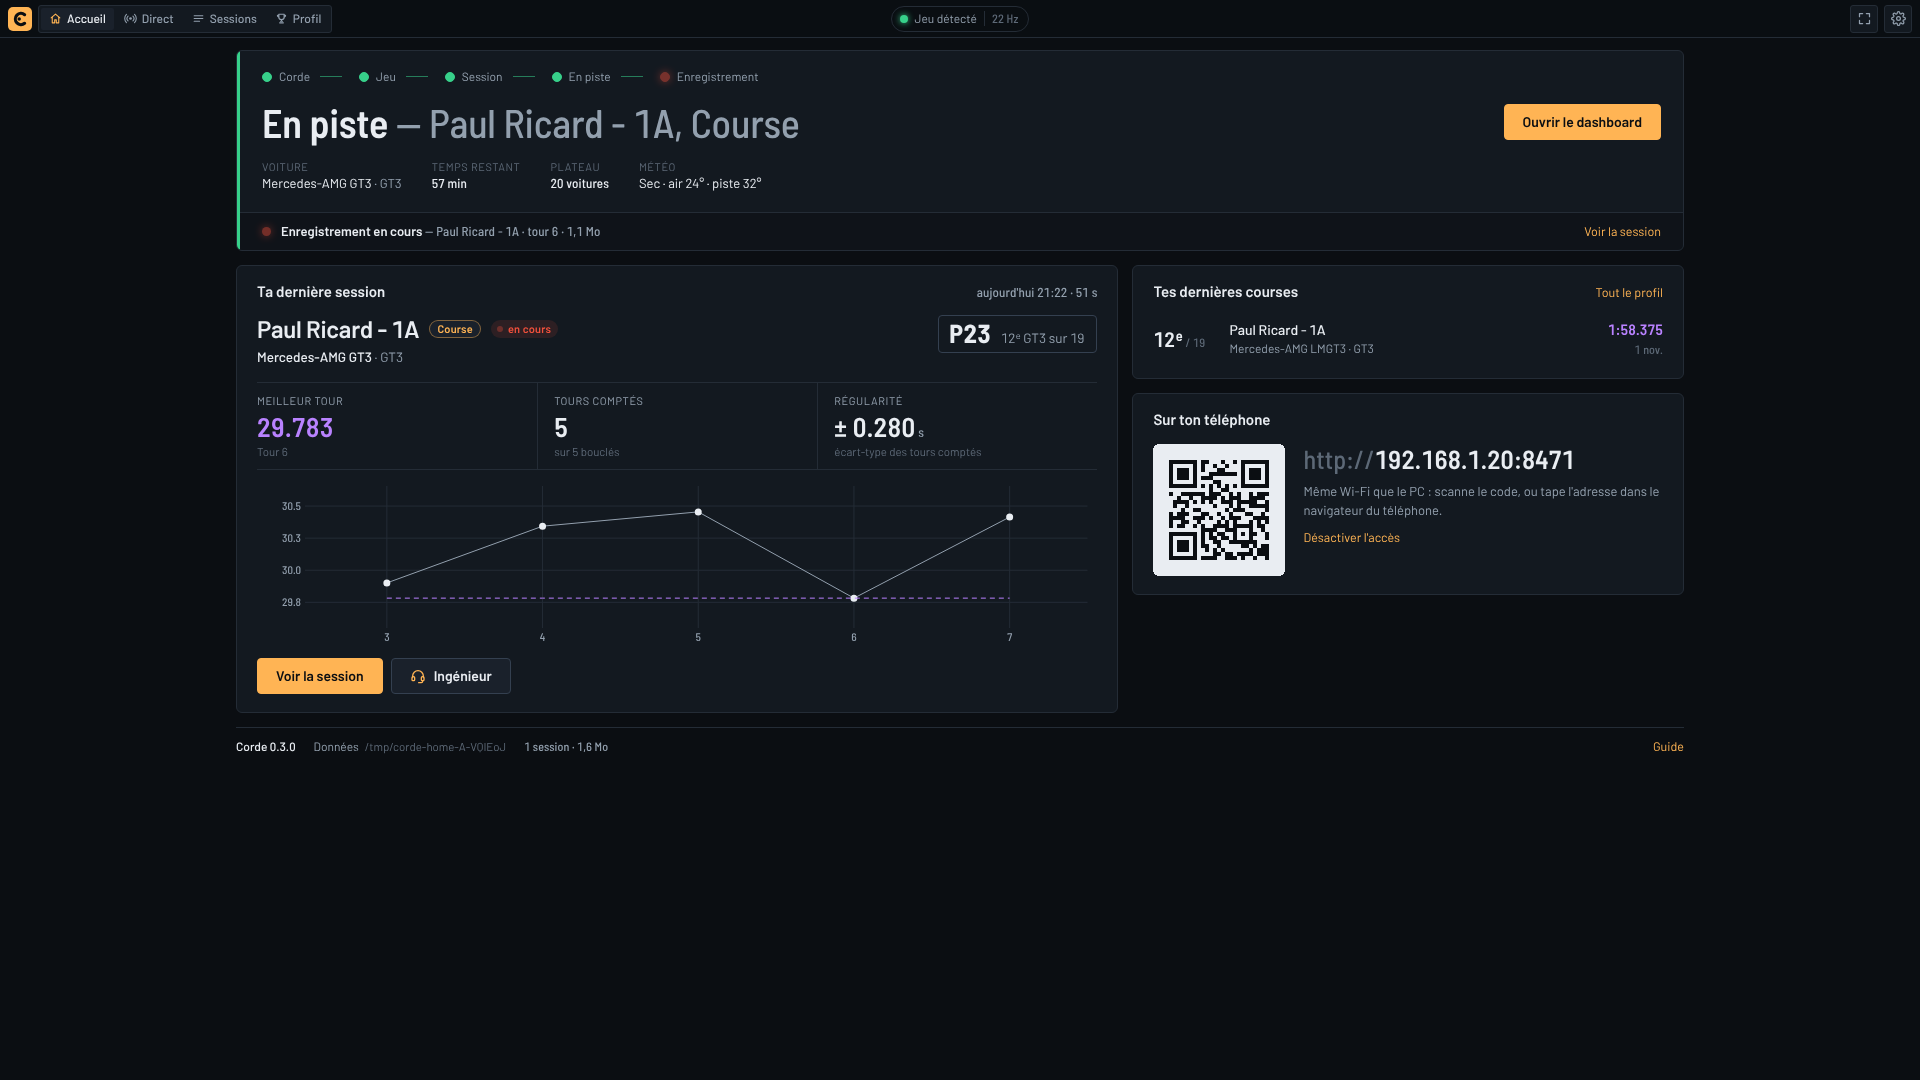
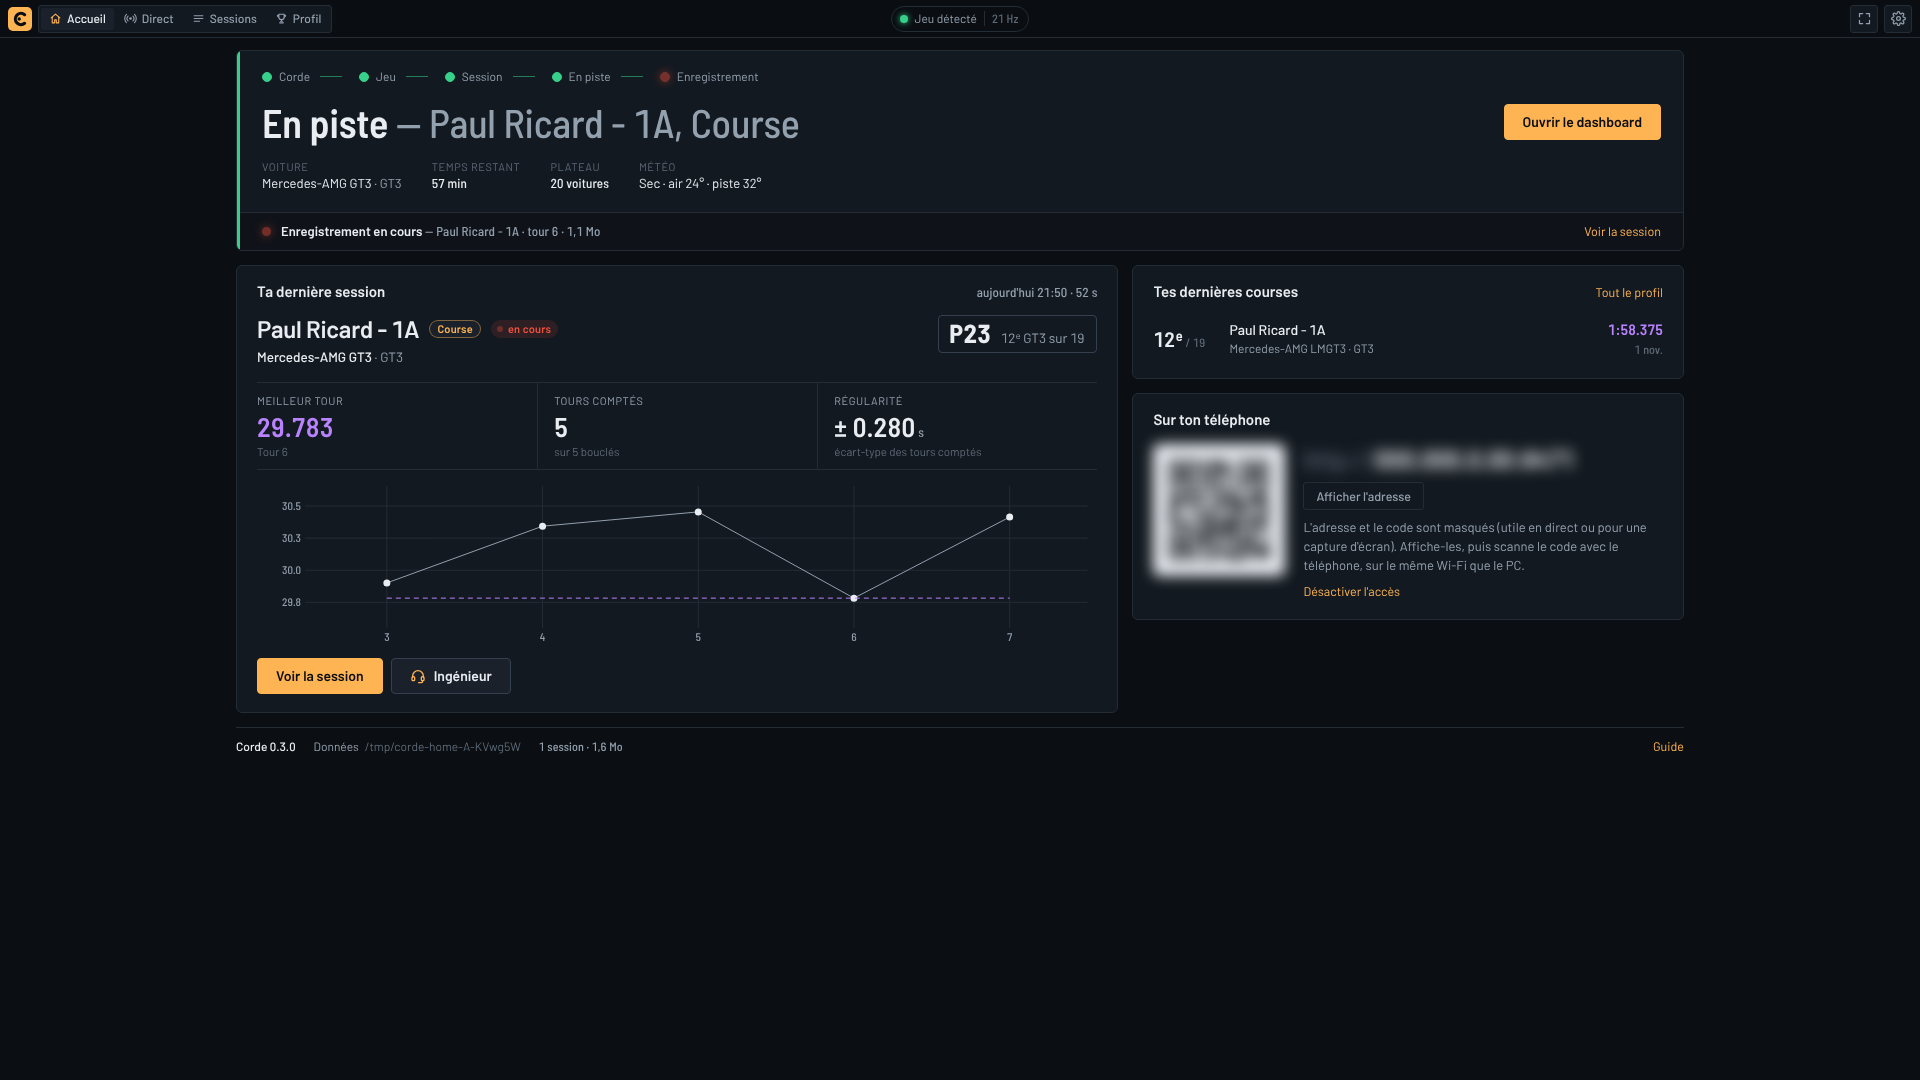
feat(ui): adresse du PC et QR code floutés par défaut, dossier de données sans le nom du compte
Sur l'accueil, le bloc « Sur ton téléphone » montre un substitut flouté (ni l'adresse ni le
QR code réels ne sont rendus) jusqu'au clic sur « Afficher l'adresse » ; l'état n'est pas
mémorisé. Le pied de page affiche %LOCALAPPDATA%\Corde au lieu du chemin complet (clic pour
le voir). Capture de l'accueil et guide mis à jour.

Claude-Session: https://claude.ai/code/session_01Tkn5C6AXYNnw4BUJ5wKaew

Changed region(s): [[0.5938, 0.3972, 0.8438, 0.55], [0.2188, 0.6722, 0.3125, 0.7028]]

diff --git a/packages/ui/src/home/HomePage.tsx b/packages/ui/src/home/HomePage.tsx
@@ -25,11 +25,13 @@ import { useConnectionPhase, useTelemetry } from "../store/telemetry";
 import { GuideDialog } from "./GuideDialog";
 import {
   bareAddress,
+  HIDDEN_ADDRESS,
   type HomePhase,
   homeLamps,
   homePhase,
   type Lamp,
   lastRaces,
+  maskUserPath,
   matchResult,
   ordinalSuffix,
   phoneState,
@@ -638,6 +640,9 @@ function PhoneCard() {
   const [busy, setBusy] = useState(false);
   const [error, setError] = useState<string | null>(null);
   const [chosen, setChosen] = useState(0);
+  // The address stays hidden (blurred stand-in) until the driver asks for it: the page may be
+  // on a stream. Not remembered: every visit starts hidden.
+  const [shown, setShown] = useState(false);
   // Only the PC that runs Corde may change the setting (the server refuses anyone else).
   const canChange = isDesktop() || isLocalPage();
 
@@ -681,14 +686,35 @@ function PhoneCard() {
     const others = state.urls.filter((u) => u !== url);
     body = (
       <div className="home-phone-on">
-        <Qr value={url} label={t("home.phone.qrLabel", { url })} />
+        {shown ? (
+          <Qr value={url} label={t("home.phone.qrLabel", { url })} />
+        ) : (
+          <div className="home-hidden" aria-hidden="true">
+            <Qr value={`http://${HIDDEN_ADDRESS}`} label="" />
+          </div>
+        )}
         <div className="home-phone-text">
-          <p className="home-url num">
-            <span className="home-url-scheme">http://</span>
-            {bareAddress(url)}
-          </p>
-          <p className="dim">{t("home.phone.on")}</p>
-          {others.length > 0 && (
+          {shown ? (
+            <p className="home-url num">
+              <span className="home-url-scheme">http://</span>
+              {bareAddress(url)}
+            </p>
+          ) : (
+            <p className="home-url num home-hidden" aria-hidden="true">
+              <span className="home-url-scheme">http://</span>
+              {HIDDEN_ADDRESS}
+            </p>
+          )}
+          <button
+            type="button"
+            className="btn home-reveal"
+            aria-pressed={shown}
+            onClick={() => setShown((v) => !v)}
+          >
+            {t(shown ? "home.phone.hide" : "home.phone.show")}
+          </button>
+          <p className="dim">{t(shown ? "home.phone.on" : "home.phone.hidden")}</p>
+          {shown && others.length > 0 && (
             <p className="home-phone-others dim">
               {t("home.phone.other")}{" "}
               {others.map((u) => (
@@ -807,6 +833,9 @@ function HomeFoot({ online, onGuide }: { online: boolean; onGuide: () => void })
     [online, revision],
   );
   const st = online ? storage.data : null;
+  // The folder is shown without the name of the Windows account (stream, screenshots); a click
+  // gives the full path.
+  const [fullPath, setFullPath] = useState(false);
   return (
     <footer className="page-foot home-foot dim">
       <span className="is-strong">
@@ -816,9 +845,15 @@ function HomeFoot({ online, onGuide }: { online: boolean; onGuide: () => void })
         <>
           <span className="home-foot-data">
             <span>{t("home.foot.data")}</span>{" "}
-            <span className="faint page-foot-path" title={st.path}>
-              {st.path}
-            </span>
+            <button
+              type="button"
+              className="faint page-foot-path home-foot-path"
+              title={t(fullPath ? "home.foot.pathHide" : "home.foot.pathShow")}
+              aria-pressed={fullPath}
+              onClick={() => setFullPath((v) => !v)}
+            >
+              {fullPath ? st.path : maskUserPath(st.path)}
+            </button>
           </span>
           <span className="num">
             {nOf(st.sessions, "word.session", "word.sessions")} · {fmtBytes(st.total_bytes, lang)}

diff --git a/packages/ui/src/home/lib.test.ts b/packages/ui/src/home/lib.test.ts
@@ -2,9 +2,11 @@ import { describe, expect, it } from "vitest";
 import type { ResultRow } from "../net/profile-api";
 import {
   bareAddress,
+  HIDDEN_ADDRESS,
   homeLamps,
   homePhase,
   lastRaces,
+  maskUserPath,
   matchResult,
   ordinalSuffix,
   phoneState,
@@ -220,5 +222,27 @@ describe("phoneState", () => {
   it("strips the scheme for display", () => {
     expect(bareAddress("http://192.168.1.20:8471")).toBe("192.168.1.20:8471");
     expect(bareAddress("http://[fd00::20]:8471/")).toBe("[fd00::20]:8471");
+  });
+});
+
+describe("what is shown while details are hidden", () => {
+  it("removes the account name from the data folder", () => {
+    expect(maskUserPath("C:\\Users\\someone\\AppData\\Local\\Corde")).toBe("%LOCALAPPDATA%\\Corde");
+    expect(maskUserPath("C:\\Users\\someone\\AppData\\Roaming\\Corde")).toBe("%APPDATA%\\Corde");
+    expect(maskUserPath("D:/Users/someone/Documents/corde-data")).toBe(
+      "%USERPROFILE%\\Documents/corde-data",
+    );
+    expect(maskUserPath("/home/someone/.local/share/corde")).toBe("~/.local/share/corde");
+    expect(maskUserPath("/Users/someone/Library/corde")).toBe("~/Library/corde");
+  });
+
+  it("leaves other folders alone", () => {
+    for (const p of ["D:\\Sim\\Corde", "/var/lib/corde", "/tmp/corde-home-x", ""]) {
+      expect(maskUserPath(p)).toBe(p);
+    }
+  });
+
+  it("stands in for the address with something that is not one of this PC's", () => {
+    expect(HIDDEN_ADDRESS).toMatch(/^0+\.0+\.0+\.0+:\d+$/);
   });
 });

diff --git a/packages/ui/src/home/lib.ts b/packages/ui/src/home/lib.ts
@@ -165,6 +165,33 @@ export function phoneState(net: NetworkInfo): PhoneState {
   return net.lan_access_setting ? { kind: "restart" } : { kind: "off" };
 }
 
+/**
+ * What stands in for the address while it is hidden (shown blurred): same shape as a real one,
+ * so the card keeps its layout, but nothing of the real address reaches the screen — the page
+ * may be on a stream or in a screenshot.
+ */
+export const HIDDEN_ADDRESS = "000.000.0.00:8471";
+
+/**
+ * A data folder without the name of the user's account: `C:\Users\<name>\AppData\Local\Corde`
+ * → `%LOCALAPPDATA%\Corde`, `/home/<name>/.local/share/corde` → `~/.local/share/corde`. Other
+ * paths are returned as they are.
+ */
+export function maskUserPath(path: string): string {
+  const win = path.match(/^[A-Za-z]:[\\/]Users[\\/][^\\/]+[\\/](.*)$/);
+  if (win) {
+    const rest = win[1] ?? "";
+    const local = rest.match(/^AppData[\\/]Local[\\/](.*)$/i);
+    if (local) return `%LOCALAPPDATA%\\${local[1] ?? ""}`;
+    const roaming = rest.match(/^AppData[\\/]Roaming[\\/](.*)$/i);
+    if (roaming) return `%APPDATA%\\${roaming[1] ?? ""}`;
+    return `%USERPROFILE%\\${rest}`;
+  }
+  const unix = path.match(/^\/(?:home|Users)\/[^/]+\/(.*)$/);
+  if (unix) return `~/${unix[1] ?? ""}`;
+  return path;
+}
+
 /** `http://192.168.1.20:8471` → `192.168.1.20:8471` (what is shown in large type). */
 export function bareAddress(url: string): string {
   return url.replace(/^https?:\/\//i, "").replace(/\/+$/, "");

diff --git a/packages/ui/src/i18n/en.ts b/packages/ui/src/i18n/en.ts
@@ -808,6 +808,10 @@ export const en: Record<TranslationKey, string> = {
   "home.phone.title": "On your phone",
   "home.phone.on":
     "Same Wi-Fi as the PC: scan the code, or type the address in the phone's browser.",
+  "home.phone.show": "Show the address",
+  "home.phone.hide": "Hide the address",
+  "home.phone.hidden":
+    "The address and the code are hidden (useful on a stream or for a screenshot). Show them, then scan the code with the phone, on the same Wi-Fi as the PC.",
   "home.phone.qrLabel": "QR code of the address {url}",
   "home.phone.other": "Other addresses of this PC",
   "home.phone.off":
@@ -829,6 +833,8 @@ export const en: Record<TranslationKey, string> = {
   "home.phone.error": "The setting was not saved: {msg}",
   "home.foot.version": "Corde {v}",
   "home.foot.data": "Data",
+  "home.foot.pathShow": "Show the full path",
+  "home.foot.pathHide": "Hide the full path",
   "home.foot.guide": "Guide",
 
   // Quick-start guide (home page)

diff --git a/packages/ui/src/i18n/fr.ts b/packages/ui/src/i18n/fr.ts
@@ -843,6 +843,10 @@ export const fr = {
   "home.phone.title": "Sur ton téléphone",
   "home.phone.on":
     "Même Wi-Fi que le PC : scanne le code, ou tape l'adresse dans le navigateur du téléphone.",
+  "home.phone.show": "Afficher l'adresse",
+  "home.phone.hide": "Masquer l'adresse",
+  "home.phone.hidden":
+    "L'adresse et le code sont masqués (utile en direct ou pour une capture d'écran). Affiche-les, puis scanne le code avec le téléphone, sur le même Wi-Fi que le PC.",
   "home.phone.qrLabel": "QR code de l'adresse {url}",
   "home.phone.other": "Autres adresses de ce PC",
   "home.phone.off":
@@ -864,6 +868,8 @@ export const fr = {
   "home.phone.error": "Le réglage n'a pas été enregistré : {msg}",
   "home.foot.version": "Corde {v}",
   "home.foot.data": "Données",
+  "home.foot.pathShow": "Afficher le chemin complet",
+  "home.foot.pathHide": "Masquer le chemin complet",
   "home.foot.guide": "Guide",
 
   // Quick-start guide (home page)

diff --git a/packages/ui/src/styles/home.css b/packages/ui/src/styles/home.css
@@ -572,6 +572,30 @@ button.link:disabled {
   overflow-wrap: anywhere;
   user-select: all;
 }
+/* Stand-in shown while the address is hidden: blurred, not selectable, not the real value. */
+.home-hidden {
+  filter: blur(7px);
+  user-select: none;
+  pointer-events: none;
+}
+.home-hidden.home-url {
+  user-select: none;
+}
+.home-reveal {
+  font-size: 12.5px;
+  padding: 5px 12px;
+}
+.home-foot-path {
+  background: none;
+  border: 0;
+  padding: 0;
+  font: inherit;
+  cursor: pointer;
+  text-align: left;
+}
+.home-foot-path:hover {
+  color: var(--text-dim);
+}
 .home-url-scheme {
   font-weight: 500;
   color: var(--text-faint);

diff --git a/docs/TESTING-ON-PC.md b/docs/TESTING-ON-PC.md
@@ -131,7 +131,9 @@ Par défaut c'est désactivé, pour que Windows ne te demande rien. Pour l'activ
    (Windows demande une confirmation administrateur). Si tu cliques sur Annuler, Corde marche toujours sur
    le PC mais le téléphone ne pourra pas se connecter (dépannage, point 4).
 3. L'écran d'accueil de Corde affiche maintenant, dans le bloc **Sur ton téléphone**, l'adresse à ouvrir
-   et un **QR code**.
+   et un **QR code**. Ils sont **floutés par défaut** (pratique en direct ou pour une capture d'écran) :
+   clique **Afficher l'adresse** pour les voir, **Masquer l'adresse** pour les cacher à nouveau. Ils
+   redeviennent masqués à chaque retour sur l'accueil.
 4. Sur le téléphone, **connecté au même Wi-Fi**, scanne le QR code avec l'appareil photo (ou tape
    l'adresse affichée dans le navigateur, par exemple `http://192.168.1.20:8471` ; c'est bien `http`,
    pas `https`).
